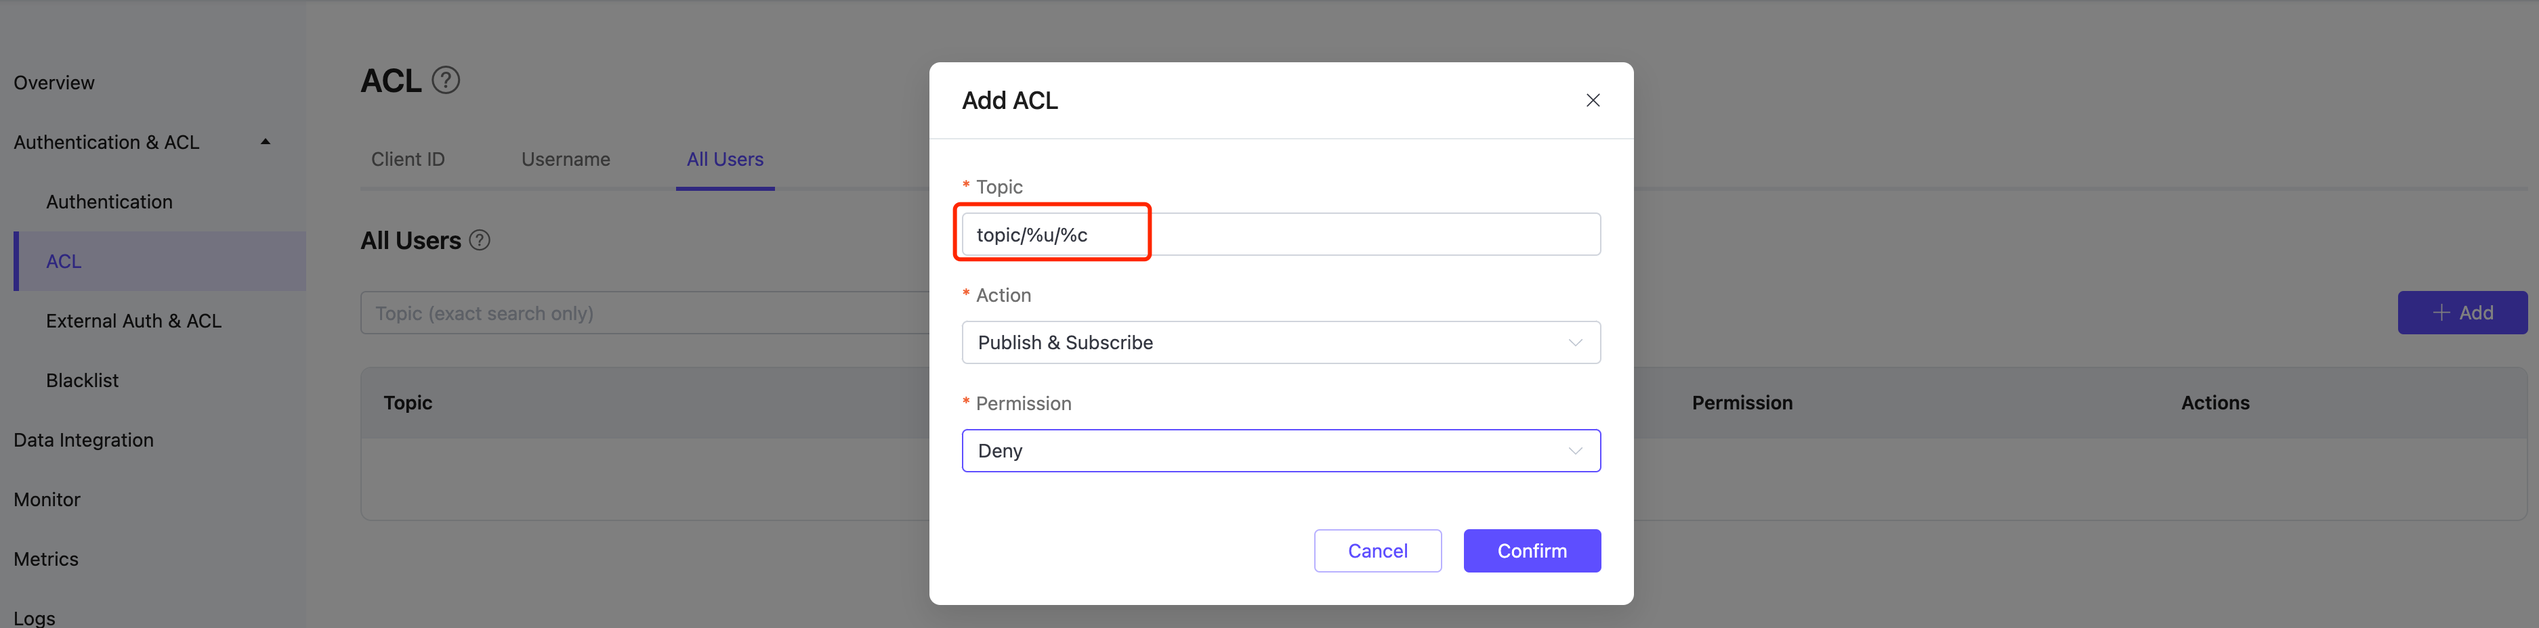
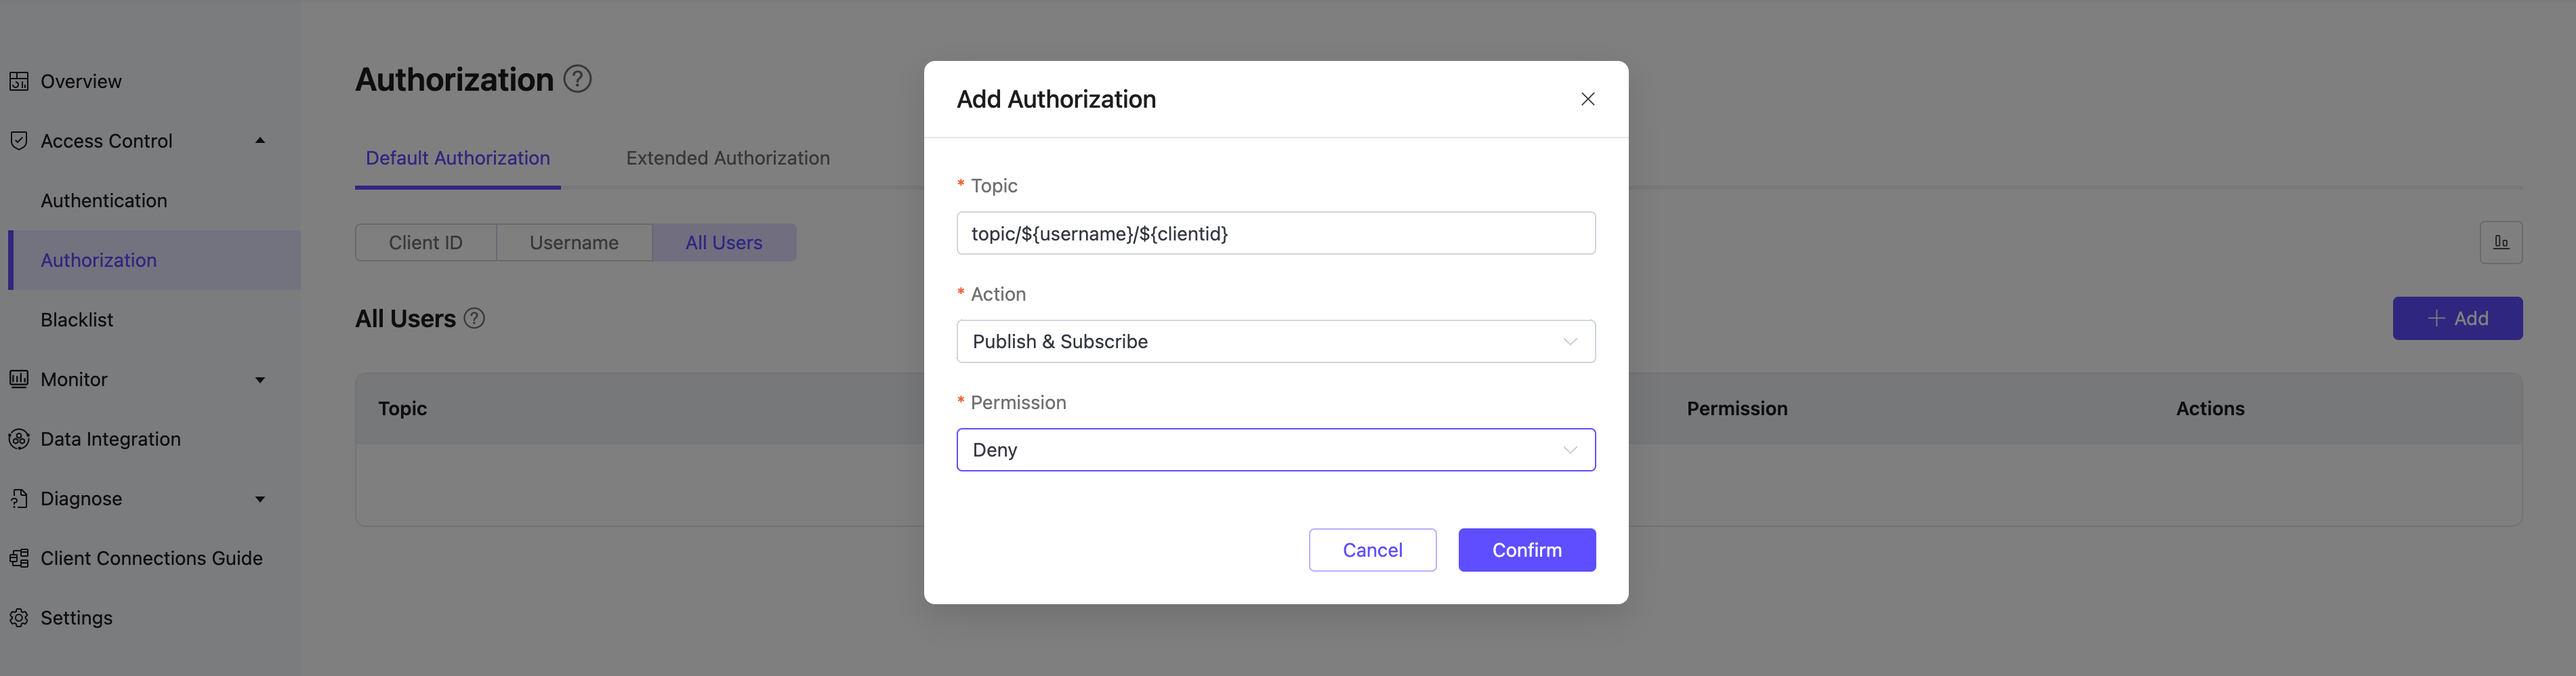
Editorial updates

diff --git a/en_US/best_practices/acl_v5.md b/en_US/best_practices/acl_v5.md
@@ -1,8 +1,8 @@
-# Configuring and Managing Authorization in EMQX Platform v5 Deployments
+# Configure and Manage Authorization in EMQX Platform v5 Deployments
 
 In EMQX Platform v5, client authorization is used to control the publish and subscribe permissions of MQTT clients. This document provides a detailed guide on configuring client ID, username, quota limits, as well as using whitelists, placeholders, and extended authorization for more advanced permission control.
 
-## Adding Authorization Information
+## Add Authorization Information
 
 :::tip Note
 
@@ -16,9 +16,9 @@ Authorization can be controlled at three levels:
 2. **Username**: Authorization validation for a specific username.
 3. **All Users**: Authorization validation based on topics for all users.
 
-When adding authorization information, fill in the client ID or username, topic, select whether to allow, then choose an action (sub/pub/pubsub), and finally click the "Add" button to complete the operation.
+When adding authorization information, fill in the client ID or username, topic,  choose an action (sub/pub/pubsub), then select whether to allow, and finally click the **Add** button to complete the operation.
 
-### Bulk Import of Authorization Information
+### Bulk Import Authorization Information
 
 You can use the provided CSV template to bulk import authorization information (not supported for "All Users"). The fields for import are as follows:
 
@@ -28,7 +28,7 @@ You can use the provided CSV template to bulk import authorization information (
 - `action`: Action (sub/pub/pubsub)
 - `access`: Whether to allow (allow/deny)
 
-## Using Placeholders
+## Use Placeholders
 
 > Placeholders can only be used to replace an entire field in a topic, such as `a/b/${username}/c/d`, and cannot replace part of a field, such as `a/b${username}c/d`.
 
@@ -44,21 +44,23 @@ If you want to restrict all users to only subscribe to or publish specific topic
 
 ![add_acl](./_assets/add_acl_v5_placeholder.png)
 
-## Enabling Whitelists
+## Enable Whitelists
 
 :::tip Note
 
 - By default, authorization uses a **blacklist mode** (i.e., all subscriptions and publish are allowed by default).
-- The **order of authorization matching** is: All Users ACL -> Username/Client ID ACL.
+- The **order of authorization matching** is: All Users authorization -> Username/Client ID authorization.
 - The combination of Client ID/Username and Topic is unique. For multiple records with the same Client ID/Username + Topic, only the most recent record is valid.
 - If you have added extended authorization data sources, ensure that "Default Authorization" is placed last in the **Authorization order** on the extended authorization page to enable whitelist mode.
 :::
 
-To enable whitelist mode (i.e., all subscriptions and publish are denied by default) in EMQX Platform, go to the "Authentication & Authorization" -> "Access Control" in the left-side menu of the deployment. On the **All Users** tab, add an authorization entry, enter `#` in the **Topic** field, select **Topic Action** as `pubsub`, and then set **Permission** to "Deny" to enable whitelist mode.
+To enable whitelist mode (i.e., all subscriptions and publish are denied by default) in EMQX Platform, go to the **Access Control** -> **Authorization** in the left menu of the deployment. 
+
+On the **All Users** tab, add an authorization entry by clicking the **Add** button. Enter `#` in the **Topic** field, select **Action** as `Publish & Subscribe`, and then set **Permission** to `Deny`. Click **Confirm** to enable whitelist mode.
 
 ![add_acl](./_assets/acl_deny_all.png)
 
-## Using External Authorization for Advanced Permission Control
+## Use External Authorization for Advanced Permission Control
 
 :::tip Note
 
@@ -68,7 +70,7 @@ To enable whitelist mode (i.e., all subscriptions and publish are denied by defa
 
 By enabling [extended authorization](../deployments/custom_authz), you can use custom services for authentication and authorization. The currently supported external data sources include Redis, MySQL, PostgreSQL, and authentication via HTTP services.
 
-### Authorization order
+### Authorization Order
 
 After adding extended authorization data sources, you can sort the authorization data sources, supporting a **custom authorization chain**: drag and arrange the authorization data source icons to configure the authorization order.
 

diff --git a/zh_CN/best_practices/acl_v5.md b/zh_CN/best_practices/acl_v5.md
@@ -6,7 +6,7 @@
 
 :::tip 提示
 
-- 内置授权的**最大条目数**为部署连接数的两倍，上限是 10w。若超过此限额，请使用外部 ACL。
+- 内置授权的**最大条目数**为部署连接数的两倍，上限是 10w。若超过此限额，请使用外部授权。
 - 授权字段支持字母、数字以及部分特殊字符（_、-、/、+、#、$、%、@、& 和 .），最大长度为 128 个字符。
 :::
 
@@ -16,7 +16,7 @@
 2. **用户名**：对特定用户名进行授权验证。
 3. **全部用户**：对所有用户基于主题进行授权验证。
 
-在添加授权信息时，依次填写客户端 ID 或用户名、主题，选择是否允许，再选择动作（sub/pub/pubsub），最后点击“添加”按钮完成操作。
+在添加授权信息时，依次填写客户端 ID 或用户名、主题，选择动作（发布/订阅/发布 & 订阅），再选择是否允许，最后点击**添加**按钮完成操作。
 
 ### 批量导入授权信息
 
@@ -37,7 +37,7 @@
 - `${clientid}`
 - `${username}`
 
-如果您想要限制所有用户只允许订阅或者发布特定主题，可以类似这样：
+如果您想要限制所有用户只允许订阅或者发布特定主题，可以类似这样填写：
 
 - 用户名 `${username}`，主题 `xx/${username}/report`
 - 客户端ID `${clientid}`，主题 `xx/${clientid}/report`
@@ -49,12 +49,12 @@
 :::tip 提示
 
 - 默认情况下，授权采用**黑名单模式**（即默认允许所有订阅和发布操作）。
-- 授权的**匹配顺序**为：全部用户 ACL -> 用户名/客户端 ACL。
+- 授权的**匹配顺序**为：全部用户权限控制 -> 用户名/客户端权限控制。
 - ClientId/Username 与 Topic 的组合是唯一的，对于同一 ClientId/Username + Topic 的多条记录，仅最新一条记录有效。
 - 如果您添加了扩展授权数据源，请确保在扩展授权页面的**授权排序**中将“默认授权”排在最后，以启用白名单模式。
 :::
 
-如需在 EMQX Platform 中开启白名单（即默认拒绝所有订阅和发布操作），请在部署左侧菜单中选择“认证鉴权” -> “访问控制”。在**全部用户**页签中，添加一条授权信息，在**主题**字段中输入 `#`，选择**主题动作**为 `pubsub`，然后设置**权限**为“拒绝”，即可开启白名单模式。
+如需在 EMQX Platform 中开启白名单（即默认拒绝所有订阅和发布操作），请在部署左侧菜单中选择**认证鉴权** -> **访问控制**。在**全部用户**页签中，添加一条授权信息，在**主题**字段中输入 `#`，选择**主题动作**为 `发布 & 订阅`，然后设置权限为`不允许`，即可开启白名单模式。
 
 ![add_acl](./_assets/acl_deny_all.png)
 
